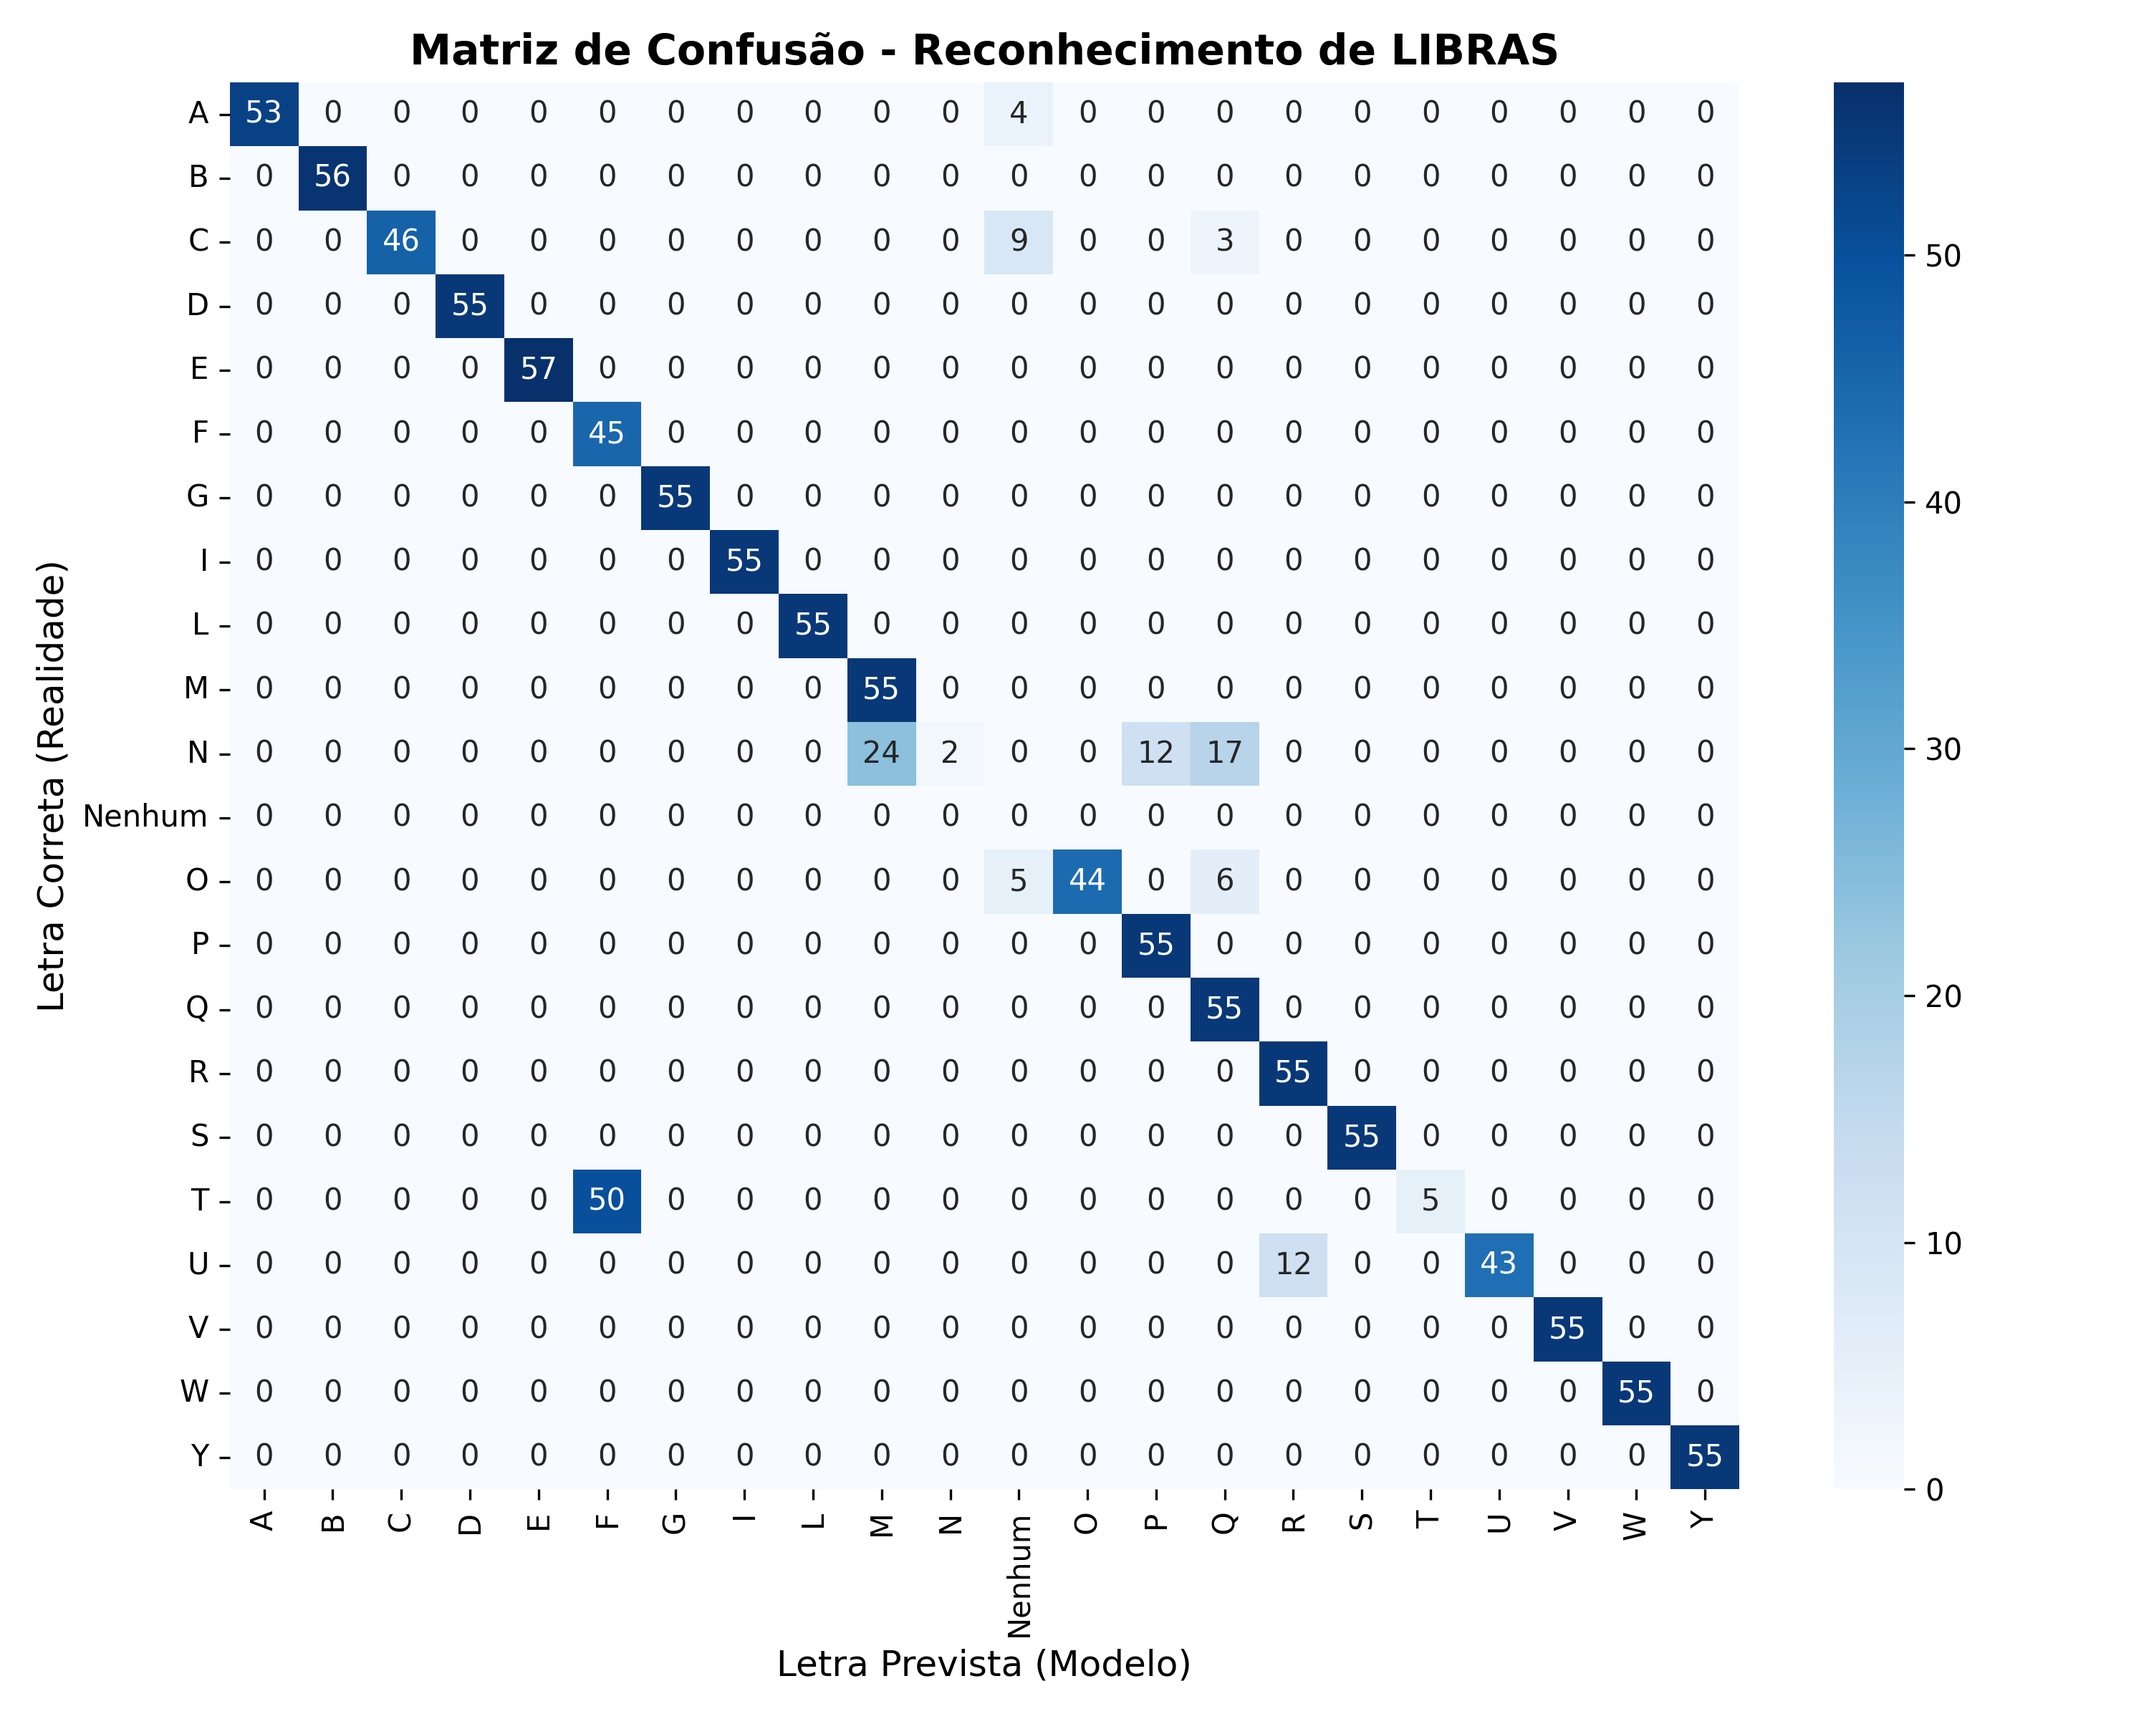
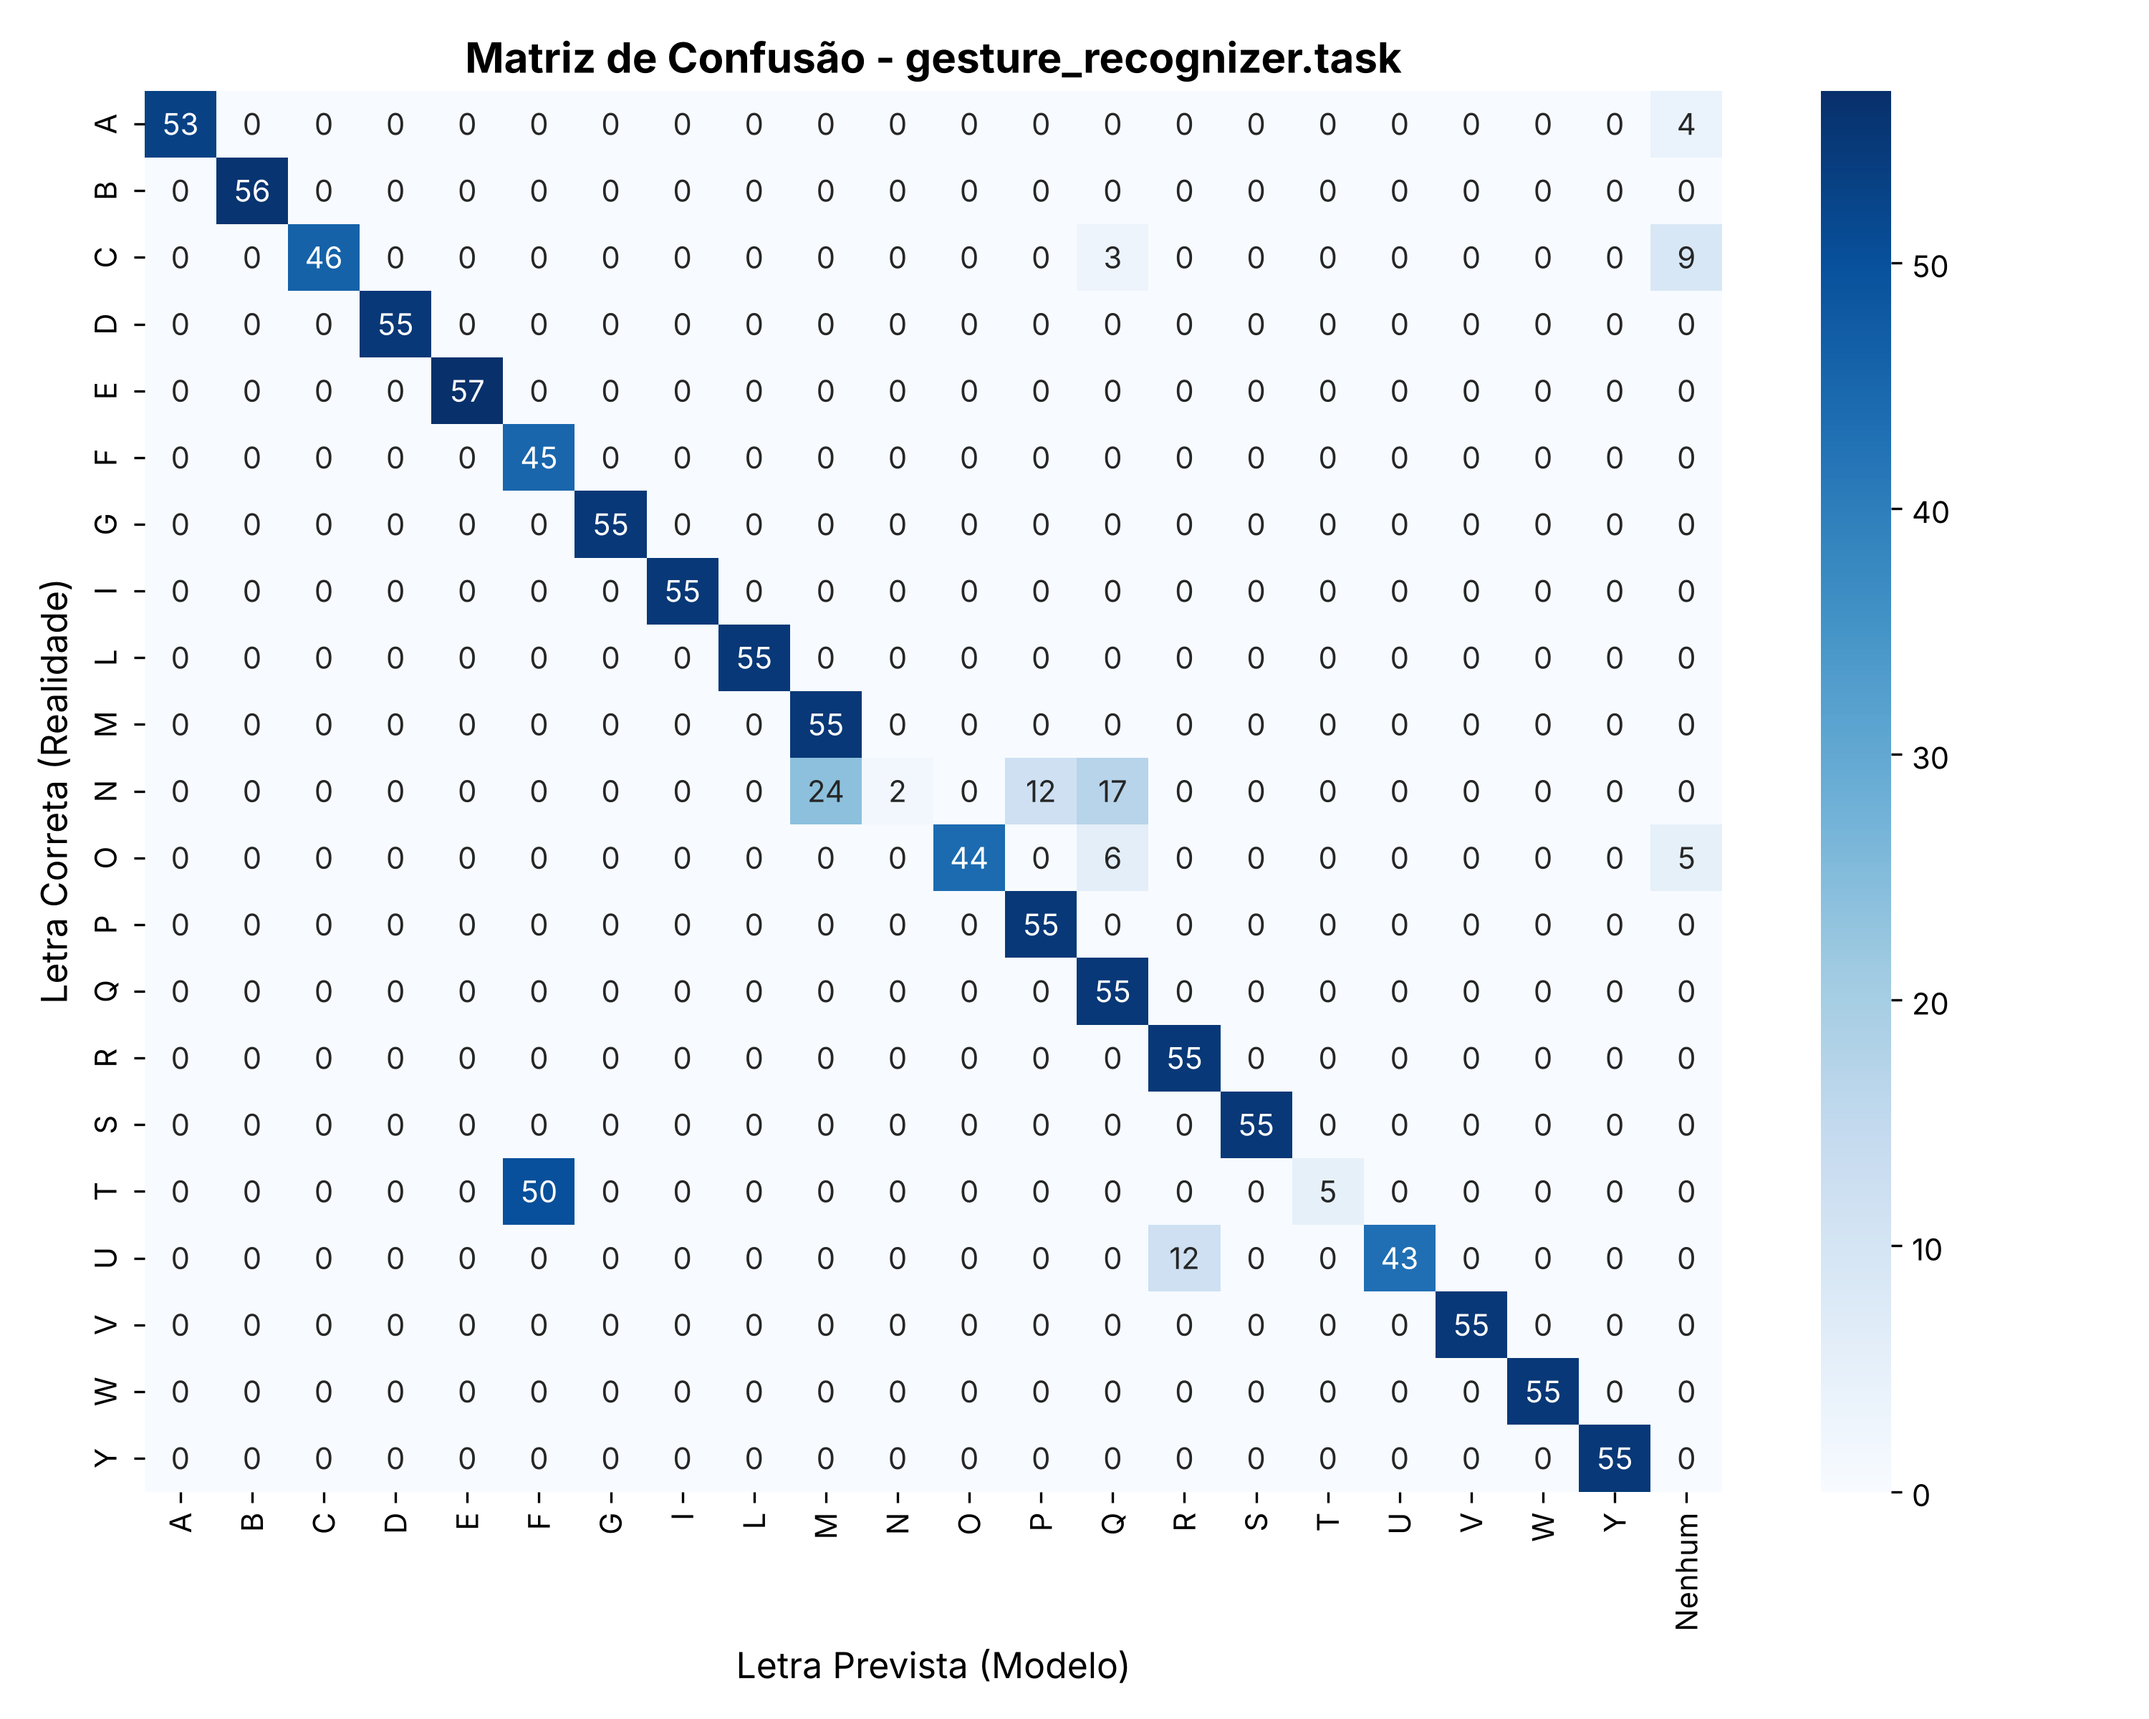
Matriz do .task: tira a linha Nenhum vazia e põe a coluna Nenhum no fim
Claude-Session: https://claude.ai/code/session_01EkWh5PkqeFjUiAiskGs4ry

diff --git a/src/avaliacao/matriz_confusao_task.py b/src/avaliacao/matriz_confusao_task.py
@@ -84,12 +84,17 @@ print("--- RELATÓRIO DE DESEMPENHO ---")
 print(classification_report(y_verdadeiro, y_previsto))
 
 # --- 5. GERAR E SALVAR A MATRIZ DE CONFUSÃO ---
-classes = sorted(list(set(y_verdadeiro + y_previsto)))
-matriz = confusion_matrix(y_verdadeiro, y_previsto, labels=classes)
+# Linhas: só as letras de verdade. Colunas: as letras e, no fim, "Nenhum"
+# (foto em que a mão não foi encontrada). Assim não aparece uma linha
+# "Nenhum" vazia no meio da matriz, entre N e O.
+letras = sorted(set(y_verdadeiro))
+extras = sorted(set(y_previsto) - set(letras) - {"Nenhum"})  # ex.: "NONE"
+colunas = letras + extras + ["Nenhum"]
+matriz = confusion_matrix(y_verdadeiro, y_previsto, labels=colunas)[:len(letras)]
 
 plt.figure(figsize=(10, 8))
-sns.heatmap(matriz, annot=True, fmt='d', cmap='Blues', xticklabels=classes, yticklabels=classes)
-plt.title('Matriz de Confusão - Reconhecimento de LIBRAS', fontsize=14, fontweight='bold')
+sns.heatmap(matriz, annot=True, fmt='d', cmap='Blues', xticklabels=colunas, yticklabels=letras)
+plt.title('Matriz de Confusão - gesture_recognizer.task', fontsize=14, fontweight='bold')
 plt.ylabel('Letra Correta (Realidade)', fontsize=12)
 plt.xlabel('Letra Prevista (Modelo)', fontsize=12)
 
